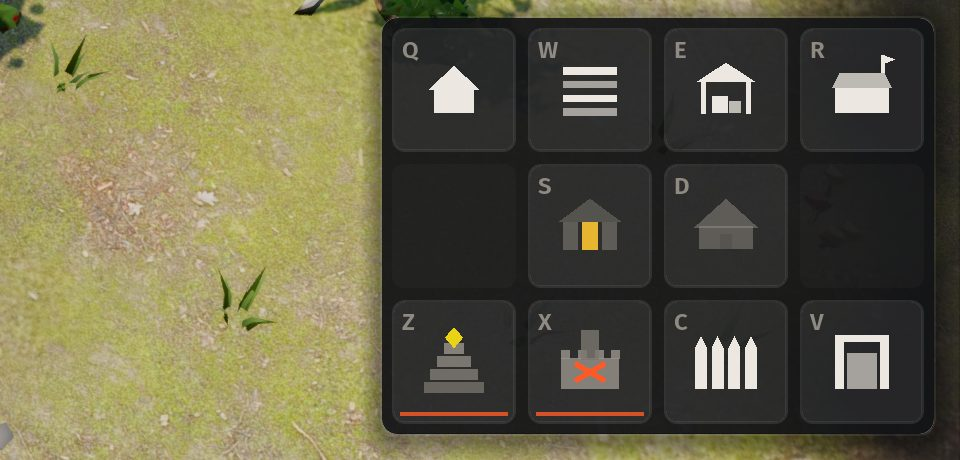
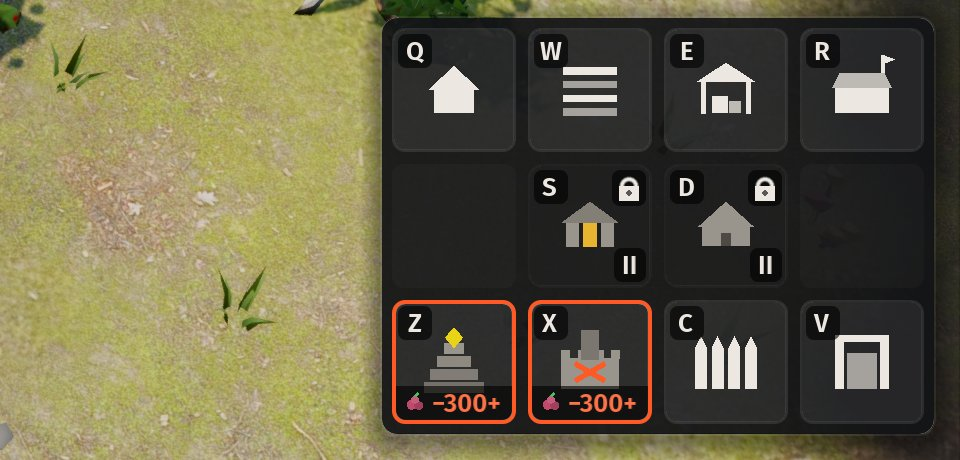
Interfaz A, paso 4: pruebas, capturas finales y documentación
- tests/test_opciones.gd: ida y vuelta por ConfigFile (archivo de prueba
  propio) y escala automática a 1080p, 4K, 1366x768 y 1024x600.
- opciones.gd: el diálogo se pone delante de los paneles F1-F6 al abrirse.
- Autotest OK a 1080p, 1366x768, 1366x768 al 150 % y 4K.
- proceso/17: pruebas, antes y después a las tres resoluciones, tropiezos y
  pendientes; índice, docs/09-estado y consulta C-22 sobre la paleta.

diff --git a/proceso/17-interfaz-segunda-tanda/01-escala-paleta-opciones.md b/proceso/17-interfaz-segunda-tanda/01-escala-paleta-opciones.md
@@ -145,7 +145,7 @@ Peor caso de cada regla con la paleta nueva (salida de `tests/test_paleta.gd`):
 
 | 1366×768 (automática, 120 %) | 3840×2160 (automática, 100 % = ×2) |
 |---|---|
-| ![1366](a-escala-1366x768.jpg) | ![4K](a-escala-3840x2160.jpg) |
+| ![1366](a-despues-1366x768.jpg) | ![4K](a-despues-3840x2160.jpg) |
 
 La misma esquina de la grilla a 4K, en tamaño real (compárese con el recorte de "antes"). El texto queda nítido: Godot rasteriza las fuentes al tamaño final, no estira una textura:
 
@@ -222,3 +222,67 @@ Los tres se distinguen por la forma (franja, candado), no solo por el color. La 
 Batalla de prueba con `--barras=1` (barras siempre visibles). Las tuyas van en verde agua, las del rival en el rojo de equipo:
 
 ![batalla](a-batalla-barras.jpg)
+
+### 6. Pruebas
+
+| Prueba | Resultado |
+|---|---|
+| `godot --headless --path . -s tests/test_paleta.gd` (nueva) | `PALETA: OK` ([salida](pruebas/a-test_paleta.txt)) |
+| `godot --headless --path . -s tests/test_opciones.gd` (nueva: ida y vuelta por `ConfigFile` en un archivo de prueba, escala automática) | `OPCIONES: OK` ([salida](pruebas/a-test_opciones.txt)) |
+| `godot --path . -- --autotest --civ=guaranies --terreno=llano --mute` | `AUTOTEST: OK` ([salida](pruebas/a-autotest-1080.txt)) |
+| La misma, con `--ventana=1366x768` | `AUTOTEST: OK` |
+| La misma, con `--ventana=1366x768 --escala=1.5` | `AUTOTEST: OK` |
+| La misma, a 3840×2160 dentro de `gamescope --backend headless` | `AUTOTEST: OK` |
+
+No se tocó `src/sim/`, así que no hacía falta correr ni la prueba de determinismo ni la de rendimiento.
+
+**Antes y después a las tres resoluciones** (aldeanos guaraníes seleccionados, semilla 7):
+
+| | Antes | Después |
+|---|---|---|
+| 1366×768 | ![](a-antes-1366x768.jpg) | ![](a-despues-1366x768.jpg) |
+| 1920×1080 | ![](a-antes-1920x1080.jpg) | ![](a-despues-1920x1080.jpg) |
+| 3840×2160 | ![](a-antes-3840x2160.jpg) | ![](a-despues-3840x2160.jpg) |
+
+Opciones desde la pausa, a 4K y con la escala al 125 %. El diálogo se pone delante de los paneles F1–F6; antes, los paneles que se agregan después quedaban encima del fondo oscuro:
+
+![opciones en la pausa](a-opciones-pausa-3840x2160-125.jpg)
+
+### Tropiezos
+
+1. **`--resolution` no sirve:** la ventana arranca maximizada. Por eso hizo falta `--ventana`.
+2. **KDE recorta la ventana al escritorio.** Las capturas de 1080p y 4K se sacan con `gamescope --backend headless`. Con 1366 de ancho, `gamescope` se cuelga, así que esa sale en una ventana común. El script de captura mata a `gamescope` por tiempo con `timeout -s KILL`, porque no responde a `TERM`.
+3. **Sin el caché de clases, Godot no conoce las clases nuevas.** Con `class_name Opciones`, la primera corrida dio `Identifier "Opciones" not declared`: hay que correr `godot --headless --path . --import` una vez para que entre la clase.
+4. **La prueba de punta a punta y la escala:** los eventos inyectados van en píxeles de la ventana. Se arregló en `_mouse` (paso 3).
+5. **Un interruptor apagado no se veía:** el `CheckButton` apagado era casi invisible. Se cambió por un botón "Sí/No".
+6. **Ocho colores no caben en las cuatro visiones:** no hay ocho colores de equipo que se separen 20 entre sí y 25 de los recursos en las cuatro visiones a la vez. Se garantiza para los equipos 1 a 4. Los 5 a 8 dependen del modo elegido.
+7. **El diálogo de opciones quedaba debajo de los paneles F1–F6:** se agregaban después en el árbol y tapaban el fondo oscuro. El diálogo se pasa adelante al abrirse. El menú de pausa de `Hud` tiene el mismo problema y no se tocó: es de la parte B (P24, cartel de pausa).
+
+### Pendiente
+
+- **Menú principal a 1366×768:** el pie de atajos queda por debajo del borde (P14, menú con jerarquía).
+- **Tamaño mínimo de texto:** varios textos de 12 y 13 px siguen dibujados a mano con `draw_string`, en los rótulos de estadísticas y la cantidad de aldeanos por recurso. La escala automática los deja en 10 px reales o más. La opción "Texto grande", independiente de la escala, queda para otra tanda.
+- **Colores en el mundo:** el modo de colores se aplica en vivo en la interfaz y el minimapa, pero los modelos 3D lo toman desde la próxima partida.
+- **Etapa 18:** cuando haya equipos, tiene que fijar `Palette.es_aliado` para que el modo "yo, aliados y rivales" pinte a los aliados.
+- **Contraste en el resto de la interfaz:** los paneles de A1, A2 y A3 (fichas, F1–F6, información en el mundo) usan `Palette.UI_DIM` y los colores nuevos sin cambios. No se revisó su contraste uno por uno.
+
+### Archivos
+
+- **Nuevos:**
+  - `src/game/ui/opciones.gd`;
+  - `src/game/ui/estado_casilla.gd`;
+  - `tests/test_paleta.gd`;
+  - `tests/test_opciones.gd`.
+- **Con bloques marcados** (`# --- opciones ---`, `# --- escala ---`, `# --- contraste ---`):
+  - `main.gd`, `hud.gd`, `menu.gd`;
+  - `overlay.gd`, `audio.gd`, `rts_camera.gd`.
+- **`palette.gd`:** bloque `# --- paleta ---`.
+- **`project.godot`:** modo de estiramiento.
+- **`docs/07-arte-y-ui.md`:** paleta.
+
+### Commits
+
+1. `Interfaz A, paso 1: --ventana=ANCHOxALTO y paleta apta para daltonismo`
+2. `Interfaz A, paso 2: escala de la interfaz y opciones guardadas`
+3. `Interfaz A, paso 3: estados de la grilla legibles y vida baja que titila`
+4. `Interfaz A, paso 4: pruebas, capturas finales y documentación`

diff --git a/docs/09-estado.md b/docs/09-estado.md
@@ -36,6 +36,8 @@ Qué está hecho, qué falta y qué sigue. El paso a paso, con capturas y video,
 | `tests/campaign_smoke.gd` | Las 24 misiones se arman y corren |
 | `tests/torneo.gd` | Balance: todas contra todas |
 | `--autotest` | Controles de punta a punta con eventos reales |
+| `tests/test_paleta.gd` | Colores de equipo, recursos y vida distinguibles con daltonismo simulado; contraste de la interfaz |
+| `tests/test_opciones.gd` | Opciones: ida y vuelta por `ConfigFile` y escala automática |
 
 ## Deudas conocidas
 
@@ -46,7 +48,7 @@ Qué está hecho, qué falta y qué sigue. El paso a paso, con capturas y video,
 | Dificultades y estilos de la IA | Tres dificultades (fácil, normal, difícil) y cuatro estilos (pacífica, equilibrada, acosadora, agresiva) |
 | Animación | Procedural (paso, galope, trabajo, golpe, muerte); sin esqueletos |
 | Modelos generados | Capitales, casas, elefante, kona y paisaje (árboles, arbustos, rocas, arcilla, peñascos); el resto de los edificios y casi todas las unidades son la maqueta procedural |
-| Interfaz, segunda tanda | Pendiente según `diseno/interfaz/00-auditoria.md`: escala de interfaz, paleta para daltónicos, cursores, grilla estable, avisos con jerarquía y opciones guardadas |
+| Interfaz, segunda tanda | Parte A hecha (`proceso/17`): escala de interfaz, paleta para daltonismo (`tests/test_paleta.gd`), estados de la grilla legibles y opciones guardadas en `user://opciones.cfg`. Falta la parte B: cursores, grilla estable, avisos con jerarquía y errores puntuales. Pendientes de la A: menú principal a 1366×768 y opción de texto grande |
 | Partidas de muchos jugadores | Planificado en `11`: de 2 a 8 jugadores y equipos, después de la economía |
 | Escala y velocidad | Corregidas el 2026-11-13 (`escala_visual`, `velocidad_pct`); falta la opinión del autor a ×1 |
 | Multijugador | H5 |

diff --git a/proceso/README.md b/proceso/README.md
@@ -22,6 +22,6 @@ Las preguntas para el autor están en [`CONSULTAS.md`](CONSULTAS.md) y se revisa
 | [14 · Implementación de la economía](14-implementacion-economia/README.md) | 2026-11-13 desde 16:00 | En curso: etapas 0–5 hechas; balance en 5 ajustes: las seis civs entre 40 y 66 % de victorias; confirmación con 5 semillas en curso |
 | [15 · Interfaz](15-interfaz/README.md) | 2026-11-13 desde 17:30 | Primera tanda integrada: fichas con retrato, paneles F1–F6 y fin de partida, información en el mundo y minimapa; auditoría para la segunda tanda |
 | [16 · Paisaje](16-paisaje/README.md) | 2026-11-13 desde 18:20 | Hecho: modelos del paisaje con Meshy (cinco árboles, arbusto, roca, arcilla con vasijas, peñasco, yerbal; 385 créditos) y agua con reflejo, orillas con juncos, suelo por bioma, pasto con viento y atmósfera por bioma |
-| [17 · Interfaz, segunda tanda](17-interfaz-segunda-tanda/README.md) | 2026-11-14 desde 09:00 | En curso: escala, paleta para daltonismo, cursores, grilla estable, avisos, opciones y errores puntuales |
+| [17 · Interfaz, segunda tanda](17-interfaz-segunda-tanda/README.md) | 2026-11-14 desde 09:00 | En curso. Parte A hecha: escala de interfaz (1366×768 a 4K), paleta apta para daltonismo con modos, estados de la grilla a 4,5:1 y opciones guardadas desde el menú y la pausa. Parte B (cursores, grilla estable, avisos, errores puntuales) en curso |
 | [18 · Muchos jugadores y equipos](18-muchos-jugadores-y-equipos/README.md) | 2026-11-14 desde 09:00 | En curso: de 2 a 8 jugadores, equipos, mapas para N, IA en equipo |
 | [19 · Arte y sonido](19-arte-y-sonido/README.md) | 2026-11-14 desde 09:00 | En curso: modelos de unidades y edificios, música para Etiopía |

diff --git a/proceso/CONSULTAS.md b/proceso/CONSULTAS.md
@@ -121,3 +121,9 @@ Hoy controla el mapa y toma sitios, así que puede ganar por ellos sin atacarte.
 a) Sí, es parte de su juego: los sitios hay que disputarlos *(recomendado)* · b) No: toma sitios pero no cuenta para su victoria · c) No toma sitios
 
 **Respuesta:**
+
+### C-22 · Paleta apta para daltonismo: ¿rojo de equipo puro y alimento frambuesa?
+Para que equipos y recursos se distingan también con daltonismo (`proceso/17-interfaz-segunda-tanda/01-escala-paleta-opciones.md`, paso 2), el jugador 2 pasó de rojo terracota a rojo puro, el alimento de rojo a frambuesa y la riqueza de dorado a amarillo dorado. Los equipos 3 y 4 son violeta y ciruela (antes verde y ocre).
+a) Dejarlo así *(recomendado)* · b) Volver al terracota para el jugador 2 aunque se confunda con el alimento (ΔE 11) · c) Otra combinación (decir cuál)
+
+**Respuesta:**

diff --git a/proceso/17-interfaz-segunda-tanda/README.md b/proceso/17-interfaz-segunda-tanda/README.md
@@ -13,3 +13,10 @@ El punto 3 es la segunda tanda de interfaz que propuso la auditoría ([`docs/dis
 - errores puntuales: texto pisado en la capital de Palmares, "Tutorial 0/4" y la población 33/8 de una misión mapuche.
 
 ## Paso a paso
+
+- **Parte A, escala, paleta y opciones** ([detalle](01-escala-paleta-opciones.md)):
+  - escala de la interfaz automática o elegida (80 a 150 %), legible de 1366×768 a 4K;
+  - paleta apta para daltonismo con modos y prueba propia;
+  - estados de la grilla a 4,5:1;
+  - menú de opciones guardado en `user://opciones.cfg`, desde el menú principal y la pausa;
+  - `--ventana=ANCHOxALTO` para las capturas.
